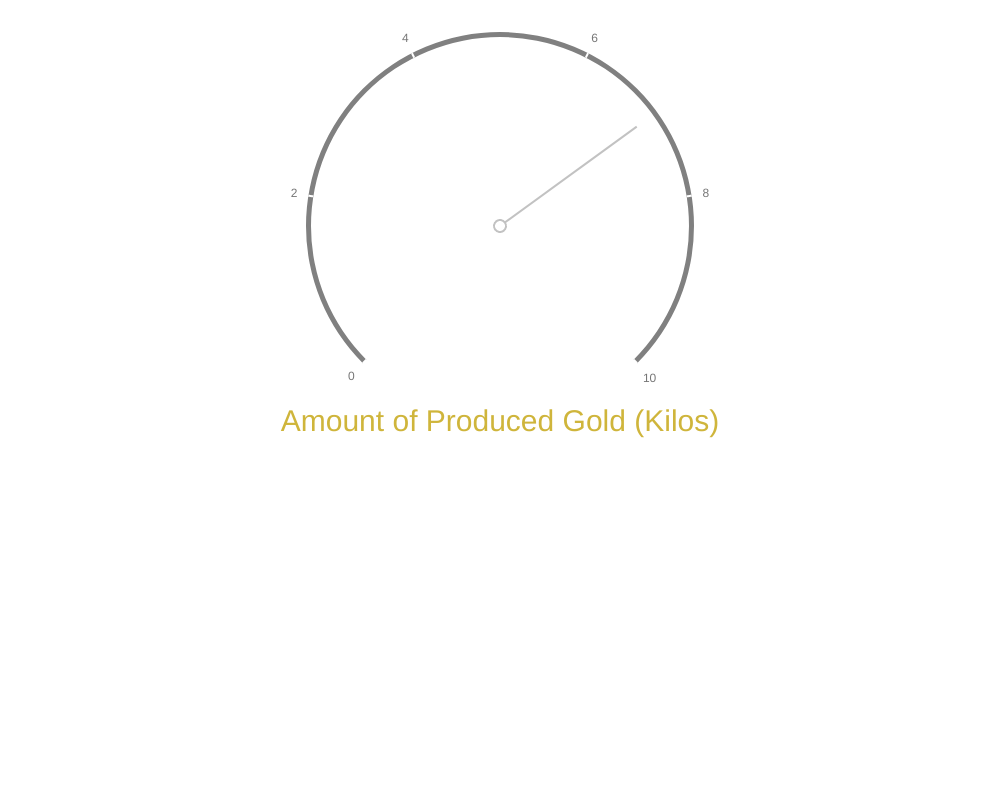
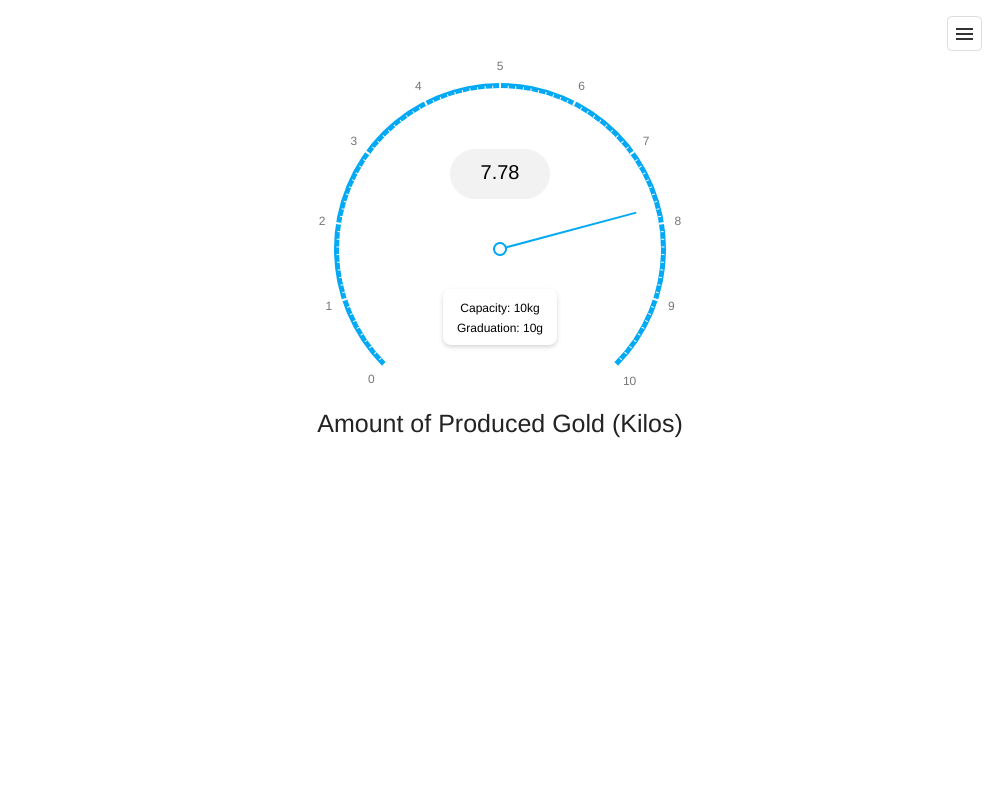
Gauges: update title demo with centerTemplate option (#2479)

diff --git a/JSDemos/Demos/Gauges/GaugeTitleCustomized/Vue/App.vue b/JSDemos/Demos/Gauges/GaugeTitleCustomized/Vue/App.vue
@@ -2,37 +2,106 @@
   <div>
     <DxCircularGauge
       id="gauge"
-      :value="7"
+      :value="7.78"
+      center-template="centerTemplate"
     >
       <DxScale
         :start-value="0"
         :end-value="10"
-        :tick-interval="2"
-      />
+        :tick-interval="1"
+      >
+        <DxMinorTick :visible="true"/>
+      </DxScale>
+      <DxExport :enabled="true"/>
+      <DxRangeContainer background-color="#03a9f4"/>
+      <DxValueIndicator color="#03a9f4"/>
       <DxTitle
         text="Amount of Produced Gold (Kilos)"
-        horizontal-alignment="center"
         vertical-alignment="bottom"
       >
         <DxFont
-          :size="30"
-          color="#CFB53B"
+          :size="25"
         />
         <DxMargin
           :top="25"
         />
       </DxTitle>
+      <template #centerTemplate="data">
+        <svg>
+          <rect
+            x="0"
+            y="0"
+            width="200"
+            height="200"
+            fill="transparent"
+          />
+          <g transform="translate(50 0)">
+            <rect
+              x="0"
+              y="0"
+              width="100"
+              height="50"
+              rx="25"
+              fill="#f2f2f2"
+            />
+            <text
+              text-anchor="middle"
+              font-size="20"
+              y="25"
+              x="50"
+              fill="#000"
+              alignment-baseline="middle"
+            >
+              {{ data.data.value() }}
+            </text>
+          </g>
+          <g transform="translate(43 140)">
+            <rect
+              class="description"
+              x="0"
+              y="0"
+              width="114"
+              height="56"
+              rx="8"
+              fill="#fff"
+            />
+            <text
+              text-anchor="middle"
+              font-size="12"
+              y="23"
+              x="57"
+              fill="#000"
+              alignment-baseline="middle"
+            >
+              <tspan x="57">Capacity: 10kg</tspan>
+              <tspan
+                x="57"
+                dy="20"
+              >Graduation: 10g</tspan>
+            </text>
+          </g>
+        </svg>
+      </template>
     </DxCircularGauge>
   </div>
 </template>
 <script>
 import {
-  DxCircularGauge, DxScale, DxTitle, DxFont, DxMargin,
+  DxCircularGauge, DxScale, DxTitle, DxFont, DxMargin, DxMinorTick, DxExport,
+  DxRangeContainer, DxValueIndicator,
 } from 'devextreme-vue/circular-gauge';
 
 export default {
   components: {
-    DxCircularGauge, DxScale, DxTitle, DxFont, DxMargin,
+    DxCircularGauge,
+    DxScale,
+    DxTitle,
+    DxFont,
+    DxMargin,
+    DxMinorTick,
+    DxExport,
+    DxRangeContainer,
+    DxValueIndicator,
   },
 };
 </script>
@@ -40,5 +109,9 @@ export default {
 #gauge {
   height: 440px;
   width: 100%;
+}
+
+.description {
+  filter: drop-shadow(0 2px 2px rgb(0 0 0 / 0.16));
 }
 </style>

diff --git a/JSDemos/Demos/Gauges/GaugeTitleCustomized/jQuery/index.js b/JSDemos/Demos/Gauges/GaugeTitleCustomized/jQuery/index.js
@@ -3,20 +3,100 @@ $(() => {
     scale: {
       startValue: 0,
       endValue: 10,
-      tickInterval: 2,
+      tickInterval: 1,
+      minorTick: { visible: true },
     },
-    value: 7,
+    export: {
+      enabled: true,
+    },
+    rangeContainer: {
+      backgroundColor: '#03a9f4',
+    },
+    valueIndicator: {
+      color: '#03a9f4',
+    },
+    value: 7.78,
     title: {
       text: 'Amount of Produced Gold (Kilos)',
-      horizontalAlignment: 'center',
       verticalAlignment: 'bottom',
       font: {
-        size: 30,
-        color: '#CFB53B',
+        size: 25,
       },
       margin: {
         top: 25,
       },
     },
+    centerTemplate: (gauge, container) => {
+      const topGroup = createGroup(50, 0);
+      const bottomGroup = createGroup(43, 140);
+      const tspan1 = createTSpan(57, 0, 'Capacity: 10kg');
+      const tspan2 = createTSpan(57, 20, 'Graduation: 10g');
+
+      const baseRect = createRect(200, 200, 'transparent', 0);
+      const topRect = createRect(100, 50, '#f2f2f2', 25);
+      const bottomRect = createRect(114, 56, '#fff', 8);
+      const valueText = createText(50, 25, 20, gauge.value());
+      const bottomText = createText(57, 23, 12, '');
+
+      bottomRect.setAttribute('class', 'description');
+
+      bottomText.appendChild(tspan1);
+      bottomText.appendChild(tspan2);
+
+      topGroup.appendChild(topRect);
+      topGroup.appendChild(valueText);
+
+      bottomGroup.appendChild(bottomRect);
+      bottomGroup.appendChild(bottomText);
+
+      container.appendChild(baseRect);
+      container.appendChild(topGroup);
+      container.appendChild(bottomGroup);
+    },
   });
 });
+
+function createRect(width, height, fill, radius) {
+  const rect = document.createElementNS('http://www.w3.org/2000/svg', 'rect');
+
+  rect.setAttribute('x', 0);
+  rect.setAttribute('y', 0);
+  rect.setAttribute('width', width);
+  rect.setAttribute('height', height);
+  rect.setAttribute('fill', fill);
+  rect.setAttribute('rx', radius);
+
+  return rect;
+}
+
+function createText(x, y, fontSize, content) {
+  const text = document.createElementNS('http://www.w3.org/2000/svg', 'text');
+
+  text.setAttribute('x', x);
+  text.setAttribute('y', y);
+  text.setAttribute('fill', '#000');
+  text.setAttribute('text-anchor', 'middle');
+  text.setAttribute('font-size', fontSize);
+  text.setAttribute('alignment-baseline', 'middle');
+  text.textContent = content;
+
+  return text;
+}
+
+function createGroup(x, y) {
+  const group = document.createElementNS('http://www.w3.org/2000/svg', 'g');
+
+  group.setAttribute('transform', `translate(${x} ${y})`);
+
+  return group;
+}
+
+function createTSpan(x, dy, content) {
+  const tspan = document.createElementNS('http://www.w3.org/2000/svg', 'tspan');
+
+  tspan.setAttribute('x', x);
+  tspan.setAttribute('dy', dy);
+  tspan.textContent = content;
+
+  return tspan;
+}

diff --git a/JSDemos/Demos/Gauges/GaugeTitleCustomized/React/App.js b/JSDemos/Demos/Gauges/GaugeTitleCustomized/React/App.js
@@ -1,18 +1,49 @@
 import React from 'react';
 import {
-  CircularGauge, Scale, Title, Font, Margin,
+  CircularGauge, Scale, Title, Font, Margin, MinorTick,
+  Export, RangeContainer, ValueIndicator,
 } from 'devextreme-react/circular-gauge';
+
+function CenterTemplate(gauge) {
+  return (
+    <svg>
+      <rect y="0" x="0" width="200" height="200" fill="transparent"></rect>
+
+      <g transform="translate(50 0)">
+        <rect x="0" y="0" width="100" height="50" rx="25" fill="#f2f2f2"></rect>
+        <text textAnchor="middle" y="25" x="50" fill="#000" fontSize="20" alignmentBaseline="middle">
+          {gauge.value()}
+        </text>
+      </g>
+
+      <g transform="translate(43 140)">
+        <rect className="description" x="0" y="0" width="114" height="56" rx="8" fill="#fff"></rect>
+        <text textAnchor="middle" y="23" x="57" fill="#000" fontSize="12" alignmentBaseline="middle">
+          <tspan x="57">Capacity: 10kg</tspan>
+          <tspan x="57" dy="20">Graduation: 10g</tspan>
+        </text>
+      </g>
+
+    </svg>
+  );
+}
 
 class App extends React.Component {
   render() {
     return (
       <CircularGauge
         id="gauge"
-        value={7}
+        value={7.78}
+        centerRender={CenterTemplate}
       >
-        <Scale startValue={0} endValue={10} tickInterval={2} />
-        <Title text="Amount of Produced Gold (Kilos)" horizontalAlignment="center" verticalAlignment="bottom">
-          <Font size={30} color="#CFB53B" />
+        <Scale startValue={0} endValue={10} tickInterval={1}>
+          <MinorTick visible />
+        </Scale>
+        <Export enabled />
+        <RangeContainer backgroundColor="#03a9f4" />
+        <ValueIndicator color="#03a9f4" />
+        <Title text="Amount of Produced Gold (Kilos)" verticalAlignment="bottom">
+          <Font size={25} />
           <Margin top={25} />
         </Title>
       </CircularGauge>

diff --git a/JSDemos/Demos/Gauges/GaugeTitleCustomized/Angular/app/app.component.html b/JSDemos/Demos/Gauges/GaugeTitleCustomized/Angular/app/app.component.html
@@ -1,11 +1,50 @@
-<dx-circular-gauge id="gauge" [value]="7">
-  <dxo-scale [startValue]="0" [endValue]="10" [tickInterval]="2"> </dxo-scale>
-  <dxo-title
-    text="Amount of Produced Gold (Kilos)"
-    horizontalAlignment="center"
-    verticalAlignment="bottom"
-  >
-    <dxo-font [size]="30" color="#CFB53B"> </dxo-font>
+<dx-circular-gauge id="gauge" [value]="7.78" centerTemplate="centerTemplate">
+  <dxo-scale [startValue]="0" [endValue]="10" [tickInterval]="1">
+    <dxo-minor-tick [visible]="true"></dxo-minor-tick>
+  </dxo-scale>
+  <dxo-export [enabled]="true"></dxo-export>
+  <dxo-range-container backgroundColor="#03a9f4"></dxo-range-container>
+  <dxo-value-indicator color="#03a9f4"></dxo-value-indicator>
+  <dxo-title text="Amount of Produced Gold (Kilos)" verticalAlignment="bottom">
+    <dxo-font [size]="25"></dxo-font>
     <dxo-margin top="25"></dxo-margin>
   </dxo-title>
+  <svg *dxTemplate="let gauge of 'centerTemplate'">
+    <rect x="0" y="0" width="200" height="200" fill="transparent"></rect>
+    <g transform="translate(50 0)">
+      <rect x="0" y="0" width="100" height="50" rx="25" fill="#f2f2f2"></rect>
+      <text
+        text-anchor="middle"
+        y="25"
+        x="50"
+        fill="#000"
+        font-size="20"
+        alignment-baseline="middle"
+      >
+        {{ gauge.value() }}
+      </text>
+    </g>
+    <g transform="translate(43 140)">
+      <rect
+        class="description"
+        x="0"
+        y="0"
+        width="114"
+        height="56"
+        rx="8"
+        fill="#fff"
+      ></rect>
+      <text
+        text-anchor="middle"
+        y="23"
+        x="57"
+        fill="#000"
+        font-size="12"
+        alignment-baseline="middle"
+      >
+        <tspan x="57">Capacity: 10kg</tspan>
+        <tspan x="57" dy="20">Graduation: 10g</tspan>
+      </text>
+    </g>
+  </svg>
 </dx-circular-gauge>

diff --git a/JSDemos/Demos/Gauges/GaugeTitleCustomized/Angular/app/app.component.css b/JSDemos/Demos/Gauges/GaugeTitleCustomized/Angular/app/app.component.css
@@ -2,3 +2,7 @@
   height: 440px;
   width: 100%;
 }
+
+::ng-deep .description {
+  filter: drop-shadow(0 2px 2px rgb(0 0 0 / 0.16));
+}

diff --git a/MVCDemos/Content/DemosStyles/Gauges/GaugeTitleCustomized.css b/MVCDemos/Content/DemosStyles/Gauges/GaugeTitleCustomized.css
@@ -2,3 +2,7 @@
     height: 440px;
     width: 100%;
 }
+
+.description {
+    filter: drop-shadow(0 2px 2px rgb(0 0 0 / 0.16));
+}

diff --git a/NetCoreDemos/wwwroot/css/DemosStyles/Gauges/GaugeTitleCustomized.css b/NetCoreDemos/wwwroot/css/DemosStyles/Gauges/GaugeTitleCustomized.css
@@ -2,3 +2,7 @@
     height: 440px;
     width: 100%;
 }
+
+.description {
+    filter: drop-shadow(0 2px 2px rgb(0 0 0 / 0.16));
+}

diff --git a/JSDemos/Demos/Gauges/GaugeTitleCustomized/React/styles.css b/JSDemos/Demos/Gauges/GaugeTitleCustomized/React/styles.css
@@ -2,3 +2,7 @@
   height: 440px;
   width: 100%;
 }
+
+.description {
+  filter: drop-shadow(0 2px 2px rgb(0 0 0 / 0.16));
+}

diff --git a/JSDemos/Demos/Gauges/GaugeTitleCustomized/jQuery/styles.css b/JSDemos/Demos/Gauges/GaugeTitleCustomized/jQuery/styles.css
@@ -2,3 +2,7 @@
   height: 440px;
   width: 100%;
 }
+
+.description {
+  filter: drop-shadow(0 2px 2px rgb(0 0 0 / 0.16));
+}
